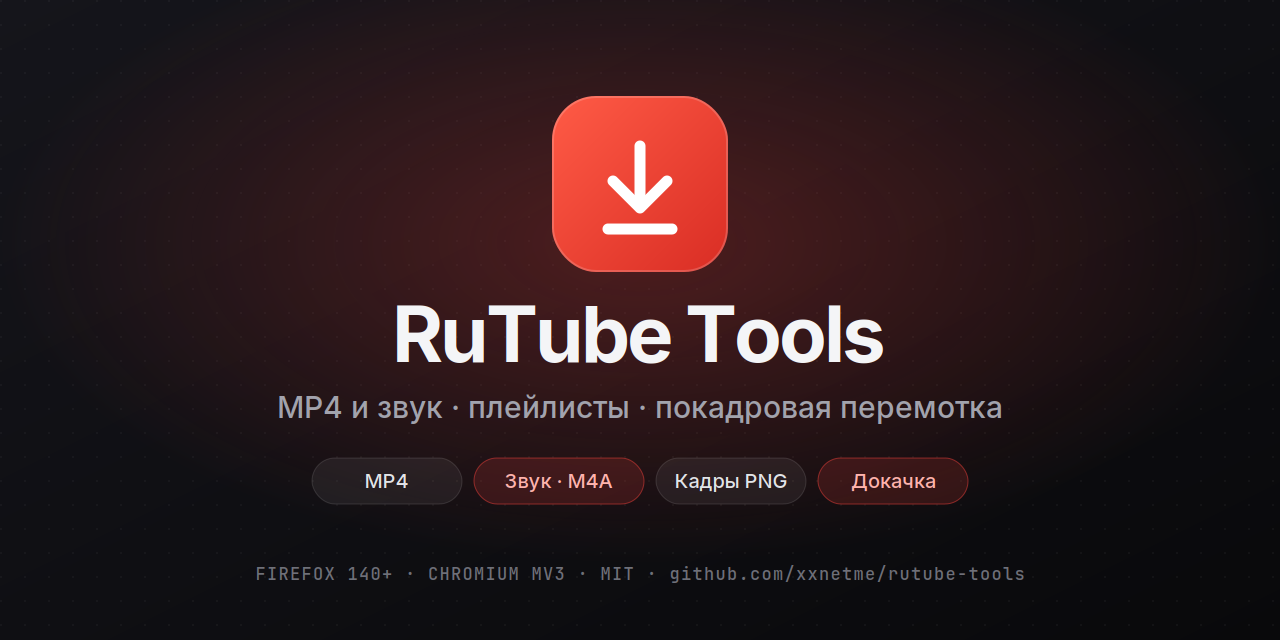
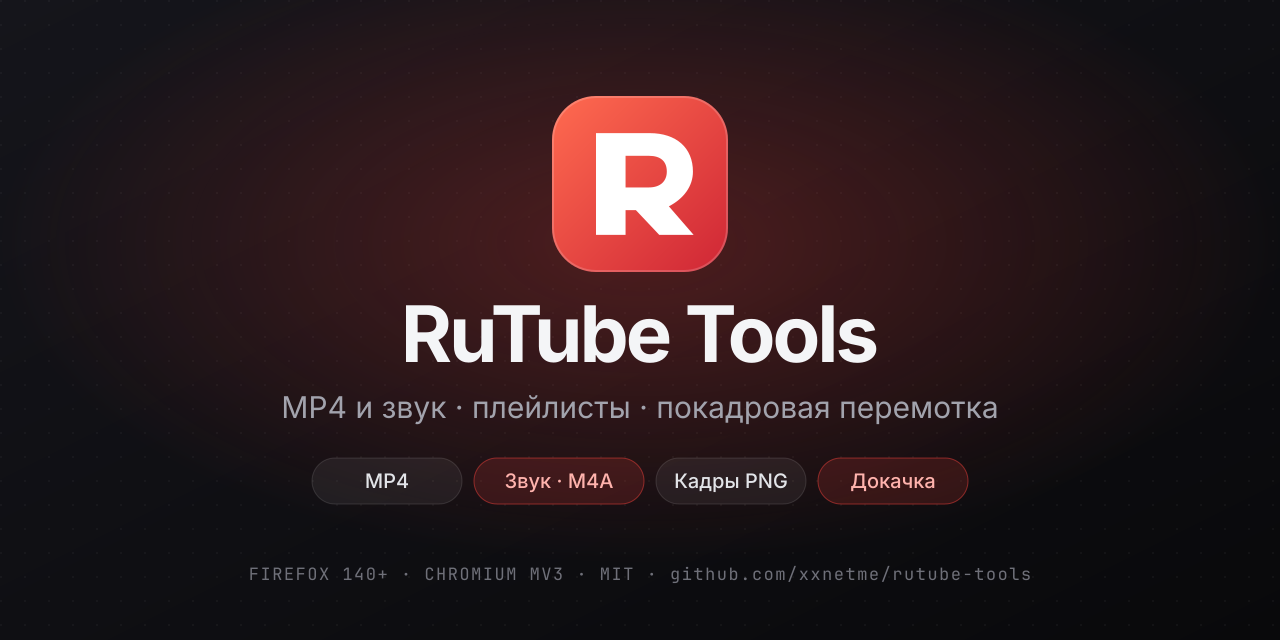
docs: refresh brand identity

diff --git a/docs/index.html b/docs/index.html
@@ -602,7 +602,7 @@ footer a{color:var(--muted)}
 <header class="top" id="top">
   <div class="wrap">
     <a class="brand" href="#" aria-label="RuTube Tools — наверх">
-      <svg viewBox="0 0 32 32" aria-hidden="true"><defs><linearGradient id="g" x1="0" y1="0" x2="1" y2="1"><stop offset="0" stop-color="#ff5b46"/><stop offset="1" stop-color="#d92d24"/></linearGradient></defs><rect width="32" height="32" rx="9" fill="url(#g)"/><g fill="none" stroke="#fff" stroke-width="2.4" stroke-linecap="round" stroke-linejoin="round"><path d="M16 8.5v10"/><path d="M11.5 14.5l4.5 4.5 4.5-4.5"/><path d="M10.5 23h11"/></g></svg>
+      <svg viewBox="0 0 32 32" aria-hidden="true"><defs><linearGradient id="g" x1="0" y1="0" x2="1" y2="1"><stop offset="0" stop-color="#ff6b50"/><stop offset="1" stop-color="#cf2635"/></linearGradient></defs><rect width="32" height="32" rx="9" fill="url(#g)"/><path transform="scale(.0625)" fill="#fff" fill-rule="evenodd" d="M128 108V404H214V332H244L312 404H412L340 321C384 298 410 262 410 220C410 151 362 108 284 108H128ZM214 174H282C316 174 334 190 334 220C334 247 316 266 282 266H214V174Z"/></svg>
       RuTube Tools
     </a>
     <nav class="nav" aria-label="Разделы">

diff --git a/docs/privacy.html b/docs/privacy.html
@@ -66,7 +66,7 @@ footer .wrap{display:flex;gap:18px;flex-wrap:wrap;justify-content:space-between}
 <body>
 <header><div class="wrap">
 <a class="brand" href="./">
-<svg width="30" height="30" viewBox="0 0 32 32" aria-hidden="true"><rect width="32" height="32" rx="8" fill="#ff5a4f"/><path d="M12.5 9.5 23 16l-10.5 6.5z" fill="#0a0a0c"/></svg>
+<svg width="30" height="30" viewBox="0 0 32 32" aria-hidden="true"><defs><linearGradient id="privacy-brand" x1="0" y1="0" x2="1" y2="1"><stop stop-color="#ff6b50"/><stop offset="1" stop-color="#cf2635"/></linearGradient></defs><rect width="32" height="32" rx="8" fill="url(#privacy-brand)"/><path transform="scale(.0625)" fill="#fff" fill-rule="evenodd" d="M128 108V404H214V332H244L312 404H412L340 321C384 298 410 262 410 220C410 151 362 108 284 108H128ZM214 174H282C316 174 334 190 334 220C334 247 316 266 282 266H214V174Z"/></svg>
 RuTube Tools</a>
 <a class="back" href="./">← На главную</a>
 </div></header>

diff --git a/README.md b/README.md
@@ -1,14 +1,6 @@
 <div align="center">
 
-<p><img src="assets/logo.png" width="76" height="76" alt="RuTube Tools"></p>
-
-<h1>RuTube Tools</h1>
-
-**Видео, звук и точная работа с кадрами — прямо в плеере RuTube.**<br>
-MP4 и M4A, плейлисты, A/B-навигация, субтитры и докачка.<br>
-Без рекламы, аналитики и сторонних серверов.
-
-<img src="assets/badges.svg" width="930" alt="Release 2.0.0 · Firefox 140+ · Chromium 109+ · 148 тестов · 0 трекеров · MIT">
+<img src="assets/banner.png" width="100%" alt="RuTube Tools — скачивание MP4, звук M4A и точная работа с кадрами прямо в плеере RuTube">
 
 <p>
 <a href="https://github.com/xxnetme/rutube-tools/releases/latest/download/rutube-tools-firefox.xpi"><b>Скачать для Firefox</b></a>
@@ -28,8 +20,6 @@ MP4 и M4A, плейлисты, A/B-навигация, субтитры и до
 </p>
 
 </div>
-
-<img src="assets/preview-ui.png" width="100%" alt="Панель RuTube Tools рядом с видео: выбор качества, формата и скачивание MP4">
 
 ---
 
